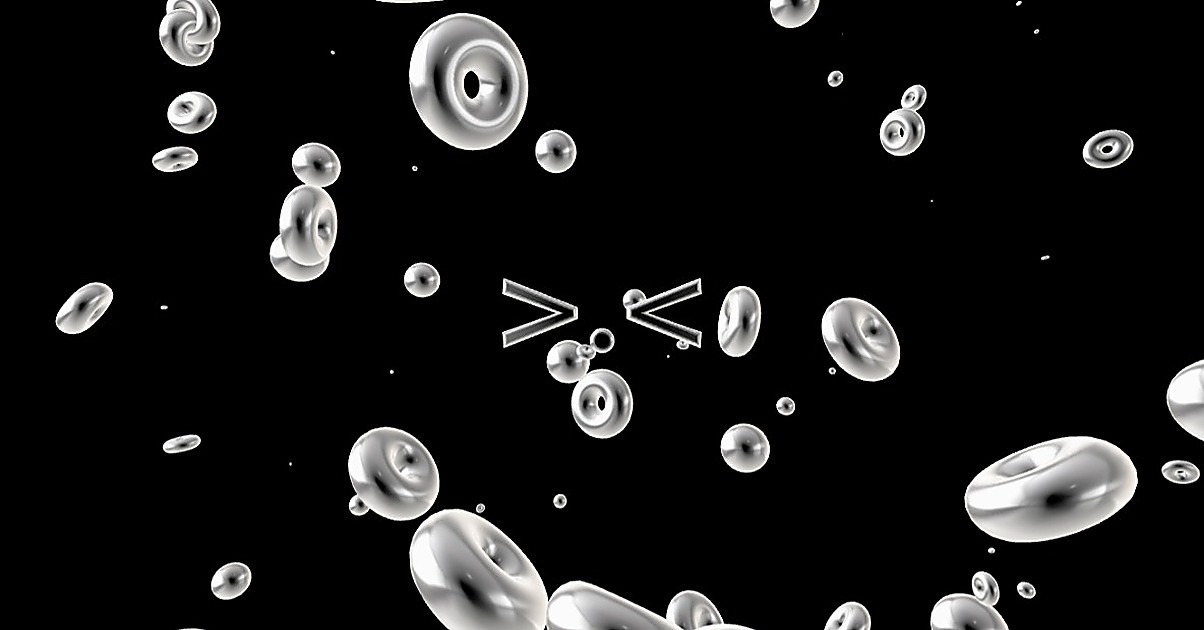
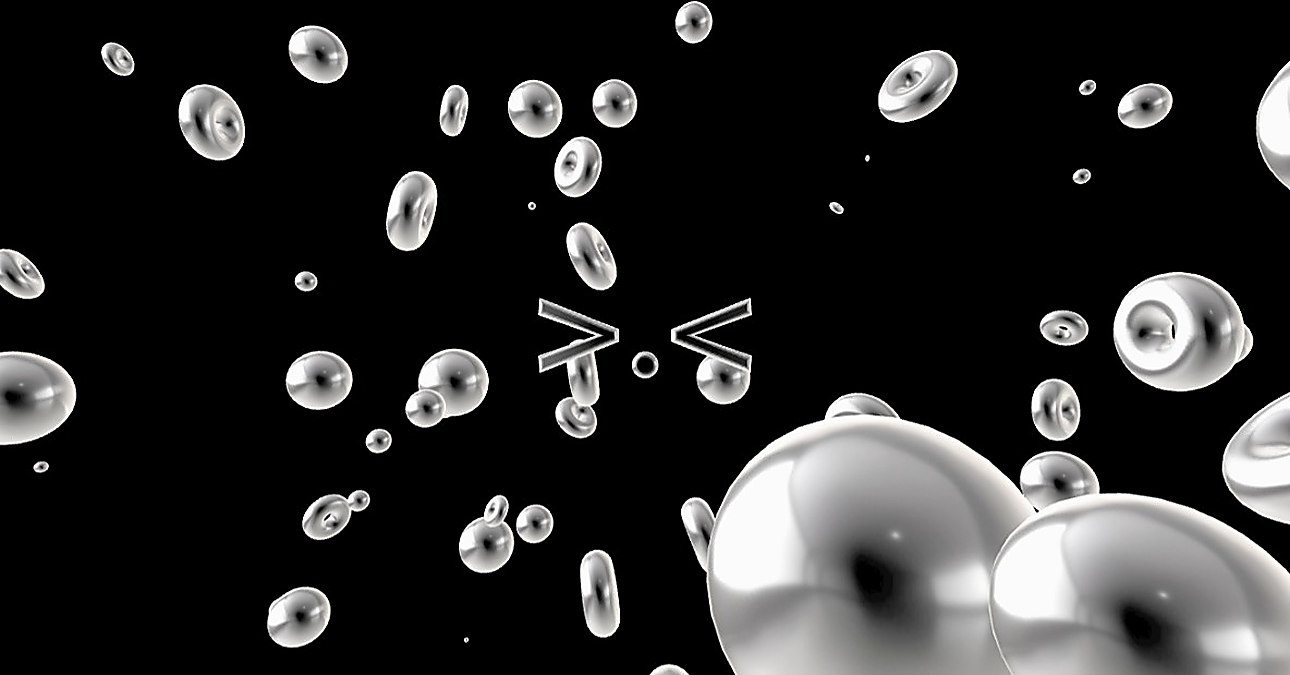
final: optimized for production and constrained zoom-out

diff --git a/live-Vercel/src/main.js b/live-Vercel/src/main.js
@@ -32,28 +32,10 @@ const controls = new OrbitControls(camera, renderer.domElement);
 controls.enableDamping = true;
 controls.dampingFactor = 0.25;
 controls.screenSpacePanning = false;
-
-// axes helper
-// const axesHelper = new THREE.AxesHelper(2);
-// scene.add(axesHelper);
-
-// Loading Manager
-const loadingManager = new THREE.LoadingManager();
-loadingManager.onStart = ( url, itemsLoaded, itemsTotal ) => {
-    console.log( 'Started loading file: ' + url + '.\nLoaded ' + itemsLoaded + ' of ' + itemsTotal + ' files.' );
-};
-loadingManager.onLoad = () => {
-    console.log( 'Loading complete!' );
-}
-loadingManager.onProgress = ( url, itemsLoaded, itemsTotal ) => {
-    console.log( 'Loading file: ' + url + '.\nLoaded ' + itemsLoaded + ' of ' + itemsTotal + ' files.' );
-}
-loadingManager.onError = ( url ) => {
-    console.log( 'There was an error loading ' + url );
-}
+controls.maxDistance = 9;
 
 // Texture Loader
-const textureLoader = new THREE.TextureLoader(loadingManager);
+const textureLoader = new THREE.TextureLoader();
 
 // Load Texture
 const matcapTexture = textureLoader.load('textures/matcaps/3.png'); 
@@ -63,7 +45,7 @@ const material = new THREE.MeshMatcapMaterial();
 material.matcap = matcapTexture;
 
 // Font Loader
-const fontLoader = new FontLoader(loadingManager);
+const fontLoader = new FontLoader();
 
 // Load Font
 fontLoader.load('fonts/optimer_regular.typeface.json',
@@ -81,42 +63,18 @@ fontLoader.load('fonts/optimer_regular.typeface.json',
             bevelSegments: 5
         });
 
-        // --Center text--
-        // - manual centering
-        // textGeometry.computeBoundingBox();
-        // textGeometry.translate(
-        //     -(textGeometry.boundingBox.max.x - 0.02) / 2,
-        //     -(textGeometry.boundingBox.max.y - 0.02) / 2,
-        //     -(textGeometry.boundingBox.max.z - 0.03) / 2
-        // );
-        // textGeometry.computeBoundingBox();
-        // console.log(textGeometry.boundingBox);
-        // - auto centering
         textGeometry.center();
 
         material.wireframe = false;
-        // material.matcap = matcapTexture;
 
         const text = new THREE.Mesh(textGeometry, material);
         scene.add(text);
-    },
-    // onProgress callback function
-    ( xhr ) => {
-        console.log( ( xhr.loaded / xhr.total * 100 ) + '% loaded' );
-    },
-    // onError callback function
-    ( err ) => {
-        console.log( 'An error happened' );
     }
 );
 
 // donuts & laddoos
 const donutGeometry = new THREE.TorusGeometry(0.3, 0.2, 20, 45);
 const laddooGeometry = new THREE.SphereGeometry(0.3, 32, 32);
-
-// material.matcap = matcapTexture;
-
-console.time('donuts');
 
 for (let i = 0; i < 121; i++) {
 
@@ -140,8 +98,6 @@ for (let i = 0; i < 121; i++) {
     laddo.scale.set(scale, scale, scale);
     scene.add(laddo);
 }
-
-console.timeEnd('donuts');
 
 // animate camera zoom-in
 gsap.to(camera.position, { duration: 3,

diff --git a/live-Vercel/src/index.html b/live-Vercel/src/index.html
@@ -15,32 +15,14 @@
     <meta property="og:image" content="https://live-vercel.vercel.app/images/share/share-image.png">
     <meta property="og:image:alt" content="Live: 3D-TEXT">
     <meta property="og:image:type" content="image/png">
-    <meta property="og:image:secure_url" content="https://live-vercel.vercel.app/images/share/share-image.png">
-    <meta property="og:image:width" content="1200">
-    <meta property="og:image:height" content="630">
+    <meta property="og:image:width" content="1290">
+    <meta property="og:image:height" content="675">
     <meta name="twitter:card" content="summary_large_image">
-    <meta name="twitter:title" content="Live: 3D-TEXT">
-    <meta name="twitter:description" content="alok's first live app">
-    <meta name="twitter:image" content="https://live-vercel.vercel.app/images/share/share-image.png">
-    <meta name="twitter:image:width" content="1200">
-    <meta name="twitter:image:height" content="630">
-    <meta name="twitter:image:src" content="https://live-vercel.vercel.app/images/share/share-image.png">
-    <meta property="twitter:image:type" content="image/png">
-    <meta name="twitter:image:alt" content="Live: 3D-TEXT">
-    <meta name="twitter:site" content="@alokumarjaiswal">
-    <meta name="twitter:creator" content="@alokumarjaiswal">
-    <meta name="robots" content="index, follow">
-    <meta name="googlebot" content="index, follow">
-    <meta name="google" content="nositelinkssearchbox">
-    <meta name="google" content="notranslate">
-    <meta name="google" content="max-snippet:-1">
-    <meta name="google" content="max-image-preview:large">
-    <meta name="google" content="max-video-preview:-1">
     <link rel="stylesheet" href="style.css">
     <link rel="apple-touch-icon" sizes="180x180" href="/images/favicon/apple-touch-icon.png" type="image/png">
     <link rel="icon" type="image/png" sizes="32x32" href="/images/favicon/favicon-32x32.png" type="image/png">
     <link rel="icon" type="image/png" sizes="16x16" href="/images/favicon/favicon-16x16.png" type="image/png">
-    <link rel="manifest" href="/site.webmanifest">
+    <link rel="manifest" href="images/favicon/site.webmanifest">
     <link rel="icon" href="/images/favicon/favicon.ico" type="image/x-icon">
     <script type="module" src="main.js" defer></script>
 </head>
